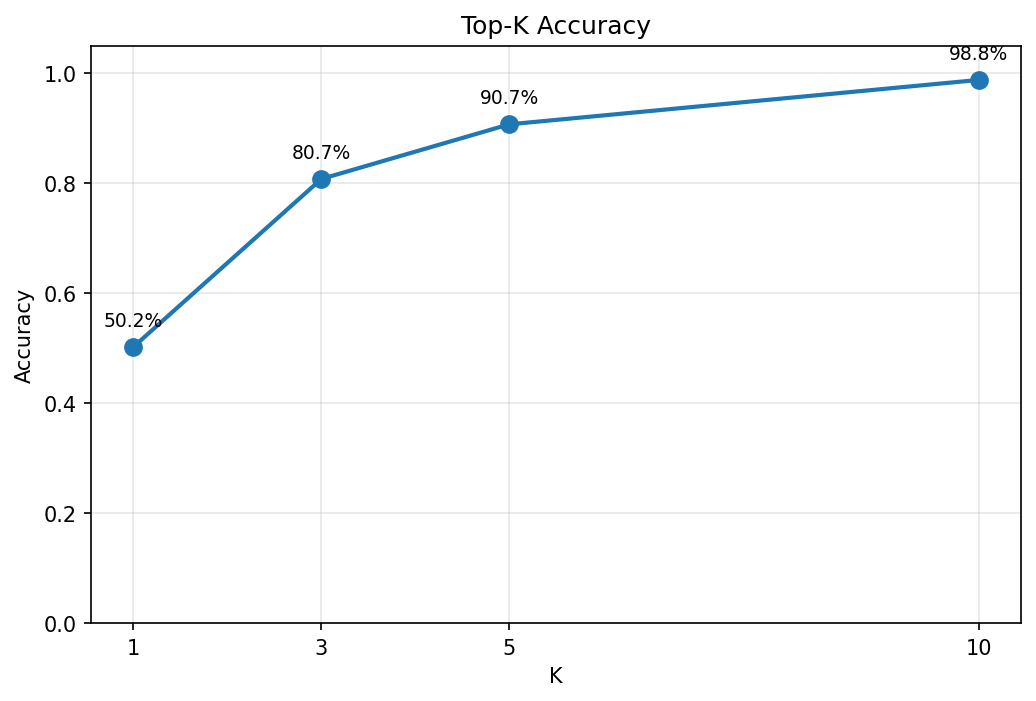
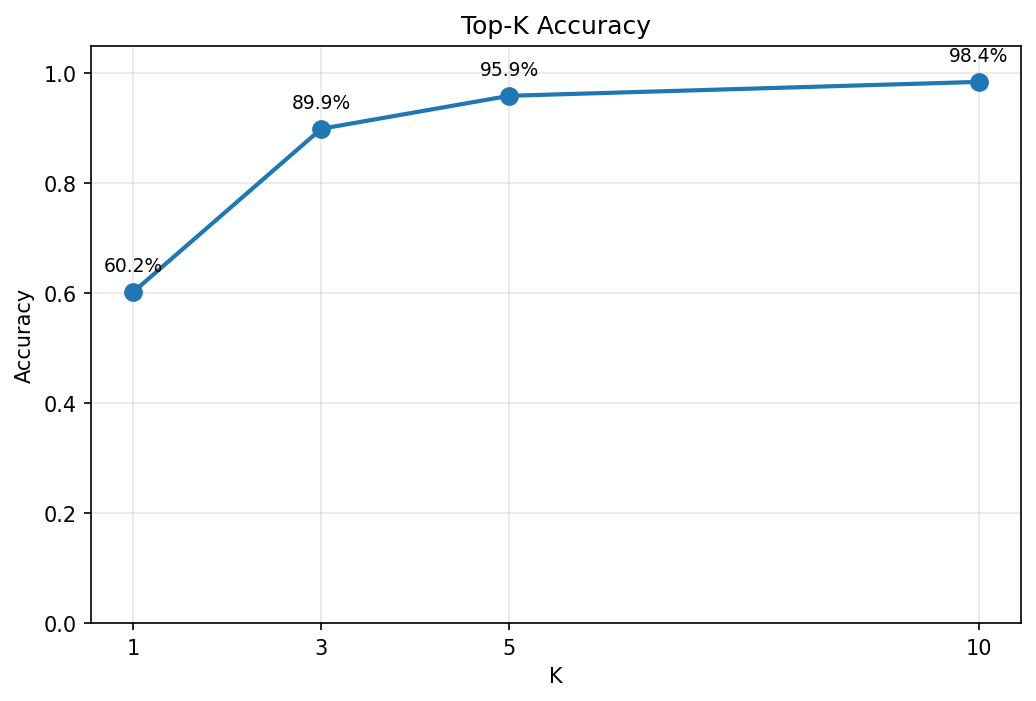
docs: refresh reports and quoted metrics for the new sample

diff --git a/README.md b/README.md
@@ -10,22 +10,22 @@ Multi-class classification system that predicts French accounting codes from fin
 
 ## Key Results
 
-Trained on **synthetic data** (7,508 transactions, 80 account classes). On real client data with higher transaction volume and consistent labeling, top-1 accuracy is substantially higher — synthetic metrics above are a lower bound. Synthetic data uses uniform entity distribution and random label templates, removing the client-specific patterns that drive accuracy in production. The feature engineering (URSSAF deadlines, TVA periods, entity detection) was designed for these real-world signals.
+Trained on **synthetic data** (10,001 bank-journal lines from 7,867 transactions, 100 account classes). On real client data with higher transaction volume and consistent labeling, top-1 accuracy is substantially higher — synthetic metrics above are a lower bound. Synthetic data uses uniform entity distribution and random label templates, removing the client-specific patterns that drive accuracy in production. The feature engineering (URSSAF deadlines, TVA periods, entity detection) was designed for these real-world signals.
 
 | Metric | Value |
 |---|---|
-| Top-1 accuracy | 50.2% |
-| Top-3 accuracy | 80.7% |
-| Top-5 accuracy | 90.7% |
-| Top-10 accuracy | 98.8% |
-| Balanced accuracy | 56.9% |
-| Classes | 80 |
-| Evaluation samples | 1,127 |
-| Bayes ceiling, top-1 / top-5 | 67.8% / 94.8% |
+| Top-1 accuracy | 60.2% |
+| Top-3 accuracy | 89.9% |
+| Top-5 accuracy | 95.9% |
+| Top-10 accuracy | 98.4% |
+| Balanced accuracy | 69.3% |
+| Classes | 100 |
+| Evaluation samples | 1,501 |
+| Bayes ceiling, top-1 / top-5 | 85.0% / 99.3% |
 
 All rows are measured on the held-out temporal test block (the most recent 15% of transactions, never seen by early stopping or tuning). The ceiling row is the Bayes-optimal classifier under the generator's own sampling process, scored on the same test rows: no model can beat it in expectation, so it is the yardstick for every synthetic number above ([`scripts/estimate_ceiling.py`](scripts/estimate_ceiling.py) — committed run: [`reports/ceiling.json`](reports/ceiling.json)).
 
-See the [Model Card](docs/MODEL_CARD.md) for intended use, factors, limitations, and drift/maintenance guidance. Top-1 is a weak summary of this system — it is designed as a ranked top-K suggestion tool with a human in the loop, which is why the top-3/top-5 numbers and balanced accuracy matter more. Training uses balanced class weights, which trade about 8pp of top-1 for +9pp balanced accuracy and +19pp recall on rare codes ([measured](docs/DESIGN.md#class-imbalance)).
+See the [Model Card](docs/MODEL_CARD.md) for intended use, factors, limitations, and drift/maintenance guidance. Top-1 is a weak summary of this system — it is designed as a ranked top-K suggestion tool with a human in the loop, which is why the top-3/top-5 numbers and balanced accuracy matter more. Training uses balanced class weights, which trade about 15pp of top-1 for +8pp balanced accuracy and +15pp recall on rare codes, with top-5 unchanged ([measured](docs/DESIGN.md#class-imbalance)).
 
 ### Feature Ablation
 
@@ -33,10 +33,10 @@ Cumulative accuracy on the held-out temporal test block. Each row adds one featu
 
 | Feature set | Accuracy | Balanced Accuracy |
 |---|---|---|
-| TF-IDF only | 0.5324 | 0.4007 |
-| + numeric | 0.5909 | 0.4875 |
-| + date | 0.5794 | 0.4728 |
-| + domain (all features) | 0.5856 | 0.4831 |
+| TF-IDF only | 0.6176 | 0.4876 |
+| + numeric | 0.7582 | 0.6297 |
+| + date | 0.7515 | 0.6290 |
+| + domain (all features) | 0.7455 | 0.6211 |
 
 Date and domain features show marginal or negative lift on synthetic data because the generator produces uniformly distributed timestamps and simplified entity patterns. On real client data with seasonal patterns and consistent entity naming, these features provide meaningful signal. Reproduce with `uv run python scripts/eval_ablation.py` — committed run: [`reports/feature_ablation.json`](reports/feature_ablation.json).
 
@@ -46,13 +46,13 @@ Same feature matrix, same temporal split, scored on the held-out test block. XGB
 
 | Model | Class weights | Top-1 | Top-5 | Balanced accuracy | F1 (weighted) | Train time |
 |---|---|---|---|---|---|---|
-| Logistic Regression | none | 0.5963 | 0.8891 | 0.5389 | 0.5812 | 9.9s |
-| Logistic Regression | balanced | 0.5306 | 0.8678 | 0.5726 | 0.5505 | 50.4s |
-| XGBoost | none | 0.5812 | 0.9175 | 0.4787 | 0.5505 | 50.5s |
-| **XGBoost** | **balanced** | **0.5022** | **0.9068** | **0.5689** | **0.5157** | **65.8s** |
-| LightGBM | none | 0.5546 | 0.8776 | 0.3874 | 0.5138 | 28.2s |
+| Logistic Regression | none | 0.7608 | 0.9714 | 0.6970 | 0.7500 | 15.7s |
+| Logistic Regression | balanced | 0.6382 | 0.9574 | 0.7442 | 0.6304 | 82.4s |
+| XGBoost | none | 0.7475 | 0.9547 | 0.6132 | 0.7252 | 80.0s |
+| **XGBoost** | **balanced** | **0.6023** | **0.9587** | **0.6928** | **0.5838** | **83.8s** |
+| LightGBM | none | 0.7009 | 0.9101 | 0.5248 | 0.6700 | 45.3s |
 
-On this synthetic data a scaled logistic regression is a close competitor to XGBoost: it leads on top-1 and weighted F1 and is the fastest to train without weights, while XGBoost leads on top-5 at either weighting. With balanced weights on both, their balanced accuracy is within half a point. The generator ties an entry's wording closely to its account code, a setting where linear models on TF-IDF features do well; neither model has been hyperparameter-searched for this comparison. Reproduce with `uv run python scripts/compare_models.py` — committed run: [`reports/model_comparison.json`](reports/model_comparison.json).
+On this synthetic data a scaled logistic regression outperforms XGBoost: it leads on top-1, balanced accuracy and weighted F1 at either weighting, leads on top-5 without weights, and is the fastest to train without weights. With balanced weights their top-5 is level (0.9574 vs 0.9587). XGBoost used all 500 of its boosting rounds in both runs, so its rows measure the production round budget rather than a converged model; neither model has been hyperparameter-searched for this comparison. Reproduce with `uv run python scripts/compare_models.py` — committed run: [`reports/model_comparison.json`](reports/model_comparison.json).
 
 ![Top-K Accuracy](reports/topk_accuracy.png)
 
@@ -115,7 +115,7 @@ flowchart LR
 
 ## Design Decisions
 
-**Why XGBoost over neural approaches.** The input is structured tabular data with high cardinality categorical features and class imbalance (80 classes, long-tail distribution). Gradient-boosted trees handle sparse, mixed-type features without the architecture tuning that neural nets require, and imbalance is handled with balanced per-row sample weights rather than resampling — trading about 8pp of top-1 for +9pp balanced accuracy and +19pp recall on rare codes ([measured](docs/DESIGN.md#class-imbalance)). Training completes in seconds, not hours, which matters when retraining on a schedule. Feature importance is directly interpretable for debugging misclassifications with domain experts.
+**Why XGBoost over neural approaches.** The input is structured tabular data with high cardinality categorical features and class imbalance (100 classes on the default sample, long-tail distribution). Gradient-boosted trees handle sparse, mixed-type features without the architecture tuning that neural nets require, and imbalance is handled with balanced per-row sample weights rather than resampling — trading about 15pp of top-1 for +8pp balanced accuracy and +15pp recall on rare codes ([measured](docs/DESIGN.md#class-imbalance)). Training on the default sample takes about a minute, which matters when retraining on a schedule. Feature importance is directly interpretable for debugging misclassifications with domain experts.
 
 **Why TF-IDF + domain features, not embeddings.** French accounting transaction text is formulaic: `URSSAF COTISATIONS`, `PRLV SEPA CPY:FR123`. Pattern-based features (entity detection, regex-extracted markers) outperform dense embeddings because the signal is in known keywords and structural patterns, not semantic meaning. TF-IDF character n-grams capture morphological variations (e.g., `COTISATION` vs `COTISATIONS`) without a pretrained language model. The feature space is sparse but highly discriminative for this domain.
 

diff --git a/docs/MODEL_CARD.md b/docs/MODEL_CARD.md
@@ -9,7 +9,7 @@ and `reports/model_comparison.json`; see the [README](../README.md) for reproduc
 - **Task:** multi-class classification of financial transactions into French accounting
   (Plan Comptable Général) codes.
 - **Architecture:** XGBoost gradient-boosted trees (500 estimators, depth 6, lr 0.05,
-  `min_child_weight` 10, `gamma` 0.5), one-vs-rest over **80 account classes**.
+  `min_child_weight` 10, `gamma` 0.5), one-vs-rest over **100 account classes**.
 - **Inputs / features:** three TF-IDF vectorizers (word n-grams on the `description` and
   `remarks` fields; character n-grams on combined text, capturing morphological variants
   like `COTISATION`/`COTISATIONS`) plus
@@ -26,8 +26,8 @@ and `reports/model_comparison.json`; see the [README](../README.md) for reproduc
 
 - **Primary use:** decision support for bookkeepers/accountants — surface a short ranked
   list of likely account codes for a transaction so a human selects/confirms. The top-K
-  design is deliberate: top-1 is moderate, but the correct code is in the top-3 ~83% of the
-  time and top-5 ~91% of the time (synthetic), which fits a "suggest, human confirms" loop.
+  design is deliberate: top-1 is moderate, but the correct code is in the top-3 ~90% of the
+  time and top-5 ~96% of the time (synthetic), which fits a "suggest, human confirms" loop.
 - **Intended users:** accounting/finance teams with a human in the loop.
 - **Out of scope / misuse:** autonomous ledger posting without human review; tax or legal
   compliance determinations; non-French charts of accounts; any setting where a wrong code
@@ -36,7 +36,7 @@ and `reports/model_comparison.json`; see the [README](../README.md) for reproduc
 
 ## Factors
 
-- **Account-code frequency:** the 80-class distribution is long-tailed. Rare codes
+- **Account-code frequency:** the 100-class distribution is long-tailed. Rare codes
   (<~50 training samples) are materially harder; this is the dominant performance factor.
 - **Transaction-label quality:** accuracy depends on consistent, structured labels
   (e.g. `URSSAF COTISATIONS`, `PRLV SEPA CPY:FR123`). Free-form or inconsistent labels degrade
@@ -46,35 +46,36 @@ and `reports/model_comparison.json`; see the [README](../README.md) for reproduc
 ## Metrics
 
 Evaluated on the held-out temporal test block (the most recent 15% of transactions, which neither
-early stopping nor tuning ever sees; n = **1,127** evaluation samples), with balanced class
+early stopping nor tuning ever sees; n = **1,501** evaluation samples), with balanced class
 weights (the default).
 
 | Metric | Value |
 |---|---|
-| Top-1 accuracy | 0.502 |
-| Top-3 accuracy | 0.807 |
-| Top-5 accuracy | 0.907 |
-| Top-10 accuracy | 0.988 |
-| Balanced accuracy | 0.569 |
+| Top-1 accuracy | 0.602 |
+| Top-3 accuracy | 0.899 |
+| Top-5 accuracy | 0.959 |
+| Top-10 accuracy | 0.984 |
+| Balanced accuracy | 0.693 |
 
-**Read accuracy (0.502) and balanced accuracy (0.569) together:** balanced class weights push
+**Read accuracy (0.602) and balanced accuracy (0.693) together:** balanced class weights push
 the model toward rare account codes, so the macro view sits *above* the headline. Without them
-the order flips (0.581 vs 0.479, [`reports/class_weighting.json`](../reports/class_weighting.json)):
+the order flips (0.748 vs 0.613, [`reports/class_weighting.json`](../reports/class_weighting.json)):
 frequent codes are predicted well and rare ones are missed. Top-1 is a poor summary of this
 system; the top-K ranking metrics are the ones aligned with its intended use. On this synthetic
-data no classifier can exceed a Bayes-optimal top-1 of 0.678 or top-5 of 0.949 on the same rows
+data no classifier can exceed a Bayes-optimal top-1 of 0.850 or top-5 of 0.993 on the same rows
 ([`reports/ceiling.json`](../reports/ceiling.json)).
 
 Model comparison on the same features and split
 ([`reports/model_comparison.json`](../reports/model_comparison.json)): on this synthetic data a
-scaled logistic regression is a close competitor. It leads on top-1 (0.596 vs 0.581 unweighted)
-and weighted F1, while XGBoost leads on top-5 (0.917 vs 0.889 unweighted; 0.907 vs 0.868 with
-balanced weights). LightGBM trails both. Neither model was hyperparameter-searched for the
-comparison.
+scaled logistic regression outperforms XGBoost. It leads on top-1 (0.761 vs 0.748 unweighted;
+0.638 vs 0.602 with balanced weights), balanced accuracy and weighted F1, and on top-5 without
+weights (0.971 vs 0.955); with balanced weights their top-5 is level (0.957 vs 0.959). LightGBM
+trails both on top-5 and balanced accuracy. XGBoost used all 500 boosting rounds in both runs,
+and neither model was hyperparameter-searched for the comparison.
 
 ## Training & Evaluation Data
 
-- **Source:** **synthetic** data — 7,508 transactions across 80 account classes, produced by
+- **Source:** **synthetic** data — 10,001 bank-journal lines from 7,867 transactions across 100 account classes, produced by
   `scripts/generate_sample_data.py`. No proprietary or personal data is used or distributed.
 - **Split:** temporal (chronological), **not** randomly shuffled — the earliest 70% train, the
   next 15% validate (early stopping, hyperparameter search), and the most recent 15% are a
@@ -84,7 +85,7 @@ comparison.
   same rows that grade it.
 - **Class weighting:** training rows carry balanced sample weights (`balanced_class_weights`,
   default on), so rare account codes weigh as much as frequent ones in the loss. On the test
-  block this costs about 8pp top-1 and 1pp top-5 for +9pp balanced accuracy
+  block this costs about 15pp top-1, with top-5 unchanged, for +8pp balanced accuracy
   ([`reports/class_weighting.json`](../reports/class_weighting.json)); every manifest records
   per-class recall.
 - **Known synthetic-vs-real gap:** the generator uses uniform entity distribution and random
@@ -96,8 +97,8 @@ comparison.
 
 ## Limitations & Ethical Considerations
 
-- **Long-tail weakness:** rare account codes are predicted least reliably (balanced accuracy
-  0.488). Do not rely on the model for unusual or low-frequency codes without review.
+- **Long-tail weakness:** rare account codes are predicted least reliably (mean recall
+  0.541 on the rarest quarter of classes). Do not rely on the model for unusual or low-frequency codes without review.
 - **Domain & locale bound:** trained for the French PCG and French-language transaction
   conventions; it does not transfer to other accounting standards or languages.
 - **Confidence is not calibration:** reported confidences are softmax-style scores, not
@@ -124,7 +125,7 @@ comparison.
   anything — smaller batches leave most classes empty and inflate the score.
   None of this replaces re-checking **balanced accuracy** (not just top-1) on freshly labeled
   recent data, or watching for changes in transaction-label vocabulary and entity naming.
-- **Retraining:** the model trains in seconds, so scheduled retraining on recent labeled data
+- **Retraining:** the model trains in about a minute on the default sample, so scheduled retraining on recent labeled data
   is cheap; pair it with the quality gate above. Re-evaluate on a fresh temporal split each time
   rather than reusing an old validation window.
 - **Reproduce:** `uv run python scripts/generate_sample_data.py` then `tc-train`; comparison via

diff --git a/docs/DESIGN.md b/docs/DESIGN.md
@@ -352,7 +352,7 @@ All defaults are defined in `core/config.py :: Settings` and in `core/models/xgb
 
 | Parameter | Value | Rationale |
 |-----------|-------|-----------|
-| `n_estimators` | 500 | Budget for boosting rounds. Not expected to complete -- early stopping should kick in well before 500. |
+| `n_estimators` | 500 | Budget for boosting rounds. Early stopping ends training only after 40 rounds without improvement; on the synthetic samples it does not trigger before 500, so this budget binds (`reports/model_comparison.json` records each booster's best round). |
 | `patience` | 40 | Patience of 40 rounds on the validation set's `mlogloss`. Tighter than the previous 50-round default; sufficient to survive temporary plateaus while stopping sooner on flat loss curves. |
 | `max_depth` | 6 | Deeper than the XGBoost default (3). The feature space is dense (entity flags, amount buckets, TF-IDF tokens), and interactions between text features and amount patterns matter (e.g., "URSSAF" + salary range = specific account code). Depth 6 captures these interactions without exploding tree complexity. |
 | `learning_rate` | 0.05 | Moderate shrinkage. With early stopping, a lower rate builds a more robust ensemble at the cost of more iterations. 0.05 balances convergence speed and ensemble quality for typical dataset sizes. |
@@ -377,10 +377,10 @@ Measured on the held-out test block with the production hyperparameters (`uv run
 
 | Weighting | Top-1 | Top-3 | Top-5 | Balanced accuracy | Rare-class recall |
 |---|---|---|---|---|---|
-| none | 0.5812 | 0.8243 | 0.9175 | 0.4787 | 0.3750 |
-| **balanced (default)** | **0.5022** | **0.8075** | **0.9068** | **0.5689** | **0.5637** |
+| none | 0.7475 | 0.9174 | 0.9547 | 0.6132 | 0.3895 |
+| **balanced (default)** | **0.6023** | **0.8987** | **0.9587** | **0.6928** | **0.5406** |
 
-Rare-class recall is the mean recall over the 20 test-block classes in the bottom quartile of training counts. Balanced weights trade about 8pp of top-1 and 1pp of top-5 for +9pp balanced accuracy and +19pp recall on rare codes. The system is a top-K suggestion tool with an accountant confirming the code, so a rare account reliably reaching the shortlist is worth more than extra top-1 hits on frequent ones; set the flag to `false` where unattended top-1 automation matters more. Every manifest records `per_class_recall` on the test block, so the effect can be checked code by code.
+Rare-class recall is the mean recall over the 25 test-block classes in the bottom quartile of training counts. Balanced weights trade about 15pp of top-1 and 2pp of top-3, with top-5 unchanged (+0.4pp), for +8pp balanced accuracy and +15pp recall on rare codes. The system is a top-K suggestion tool with an accountant confirming the code, so a rare account reliably reaching the shortlist is worth more than extra top-1 hits on frequent ones; set the flag to `false` where unattended top-1 automation matters more. Every manifest records `per_class_recall` on the test block, so the effect can be checked code by code.
 
 ### Stochastic boosting
 
@@ -412,10 +412,10 @@ Accuracy on the held-out temporal test block (15% most recent transactions) with
 
 | Feature set | Accuracy | Balanced Accuracy |
 |---|---|---|
-| TF-IDF only | 0.5324 | 0.4007 |
-| + numeric | 0.5909 | 0.4875 |
-| + date | 0.5794 | 0.4728 |
-| + domain (all features) | 0.5856 | 0.4831 |
+| TF-IDF only | 0.6176 | 0.4876 |
+| + numeric | 0.7582 | 0.6297 |
+| + date | 0.7515 | 0.6290 |
+| + domain (all features) | 0.7455 | 0.6211 |
 
 > **Note on synthetic data:** Date and domain features show marginal or negative lift here because the synthetic generator produces uniformly distributed timestamps and simplified entity patterns. On real client data, where fiscal-period clustering and entity-specific accounting rules create learnable signals, domain features contributed +3-5% top-1 accuracy. The features are retained because the system is designed for production data characteristics, not synthetic benchmarks.
 
